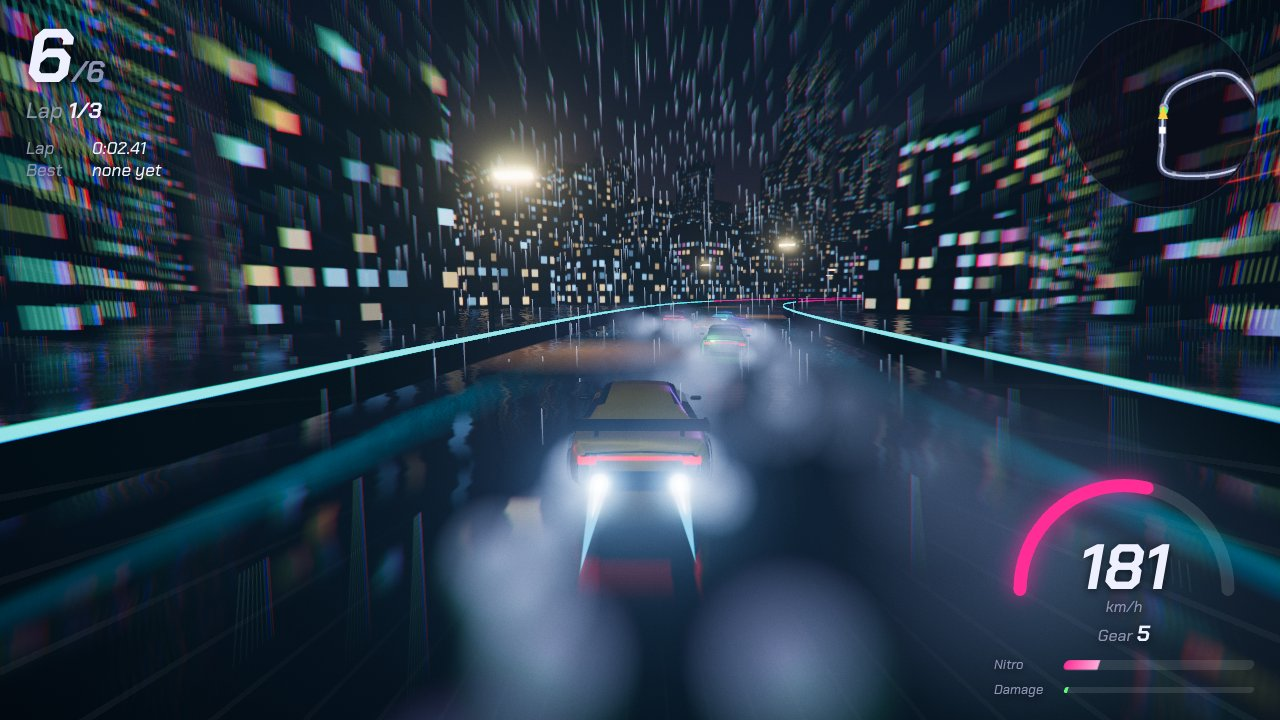
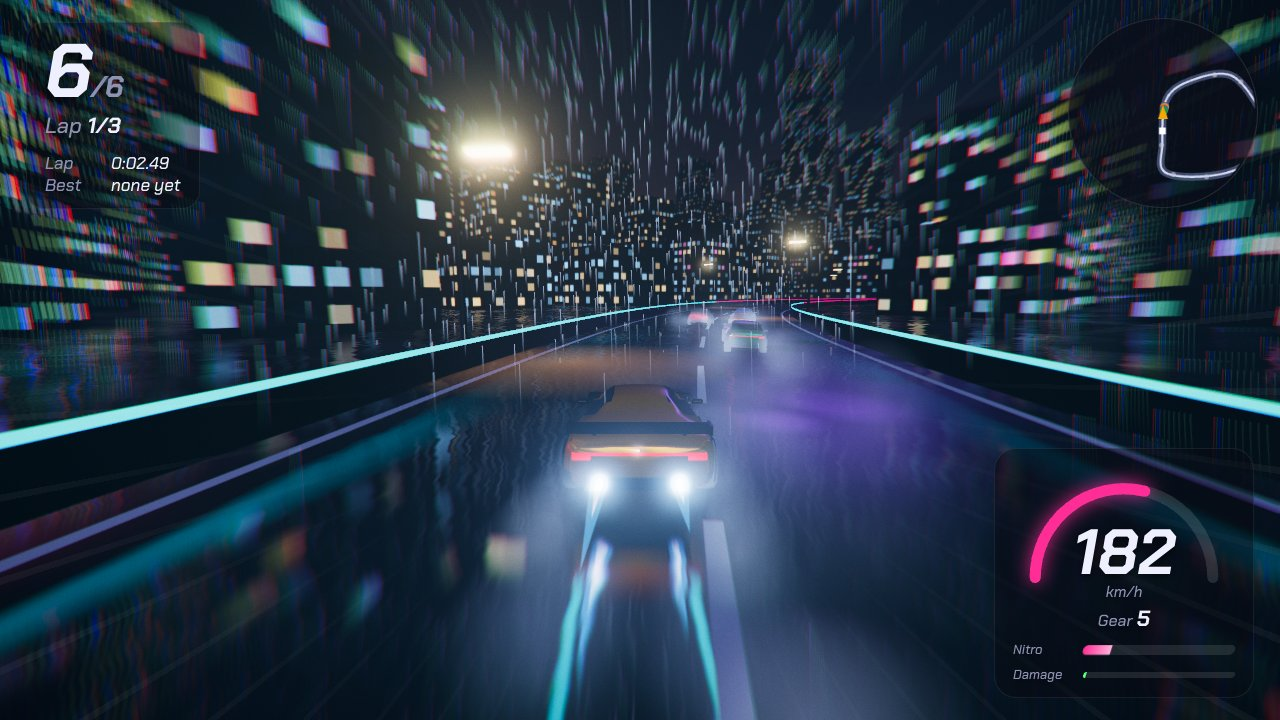
Retake README images for the day setting and the cockpit camera
The title, results, replay and damage shots are now on the mountain road
by day, a new day.jpg shows a race there, and cockpit.jpg replaces the
bonnet shot. The rain and dusk shots stay for the night city.

diff --git a/scripts/shots.ts b/scripts/shots.ts
@@ -37,8 +37,8 @@ const shot = async (name: string) => {
 }
 
 // Title screen, and the same at link-preview size.
-await open(page, '&seed=readme&weather=clear')
-await page.waitForTimeout(1500)
+await open(page, '&seed=readme&weather=day')
+await page.waitForTimeout(2500)
 await shot('title')
 await page.setViewportSize({ width: 1200, height: 630 })
 await page.waitForTimeout(600)
@@ -76,14 +76,19 @@ await shot('drift')
 await page.keyboard.up('ArrowRight')
 await page.keyboard.up('ArrowUp')
 
-// The bonnet camera, with the autopilot driving so the car is at speed.
-await open(page, '&seed=readme&weather=rain&autopilot')
+// The cockpit camera on the mountain road, driven with the keyboard so the
+// pedal panel shows the throttle.
+await open(page, '&seed=readme&weather=day')
 await run(page, `window.__neon.begin(window.__neon.quickSpec('race'))`)
 await run(page, 'window.__neon.game.fastForward(3.2)')
-await run(page, `window.__neon.game.camMode = 'hood'`)
-await page.waitForTimeout(5000)
-await shot('bonnet')
+await run(page, `window.__neon.game.camMode = 'cockpit'`)
+await page.keyboard.down('ArrowUp')
+await page.waitForTimeout(3500)
+await shot('cockpit')
 await run(page, `window.__neon.game.camMode = 'chase'`)
+await page.waitForTimeout(1500)
+await shot('day')
+await page.keyboard.up('ArrowUp')
 // Damage: hits on the front left and the rear right, recorded the same way
 // a barrier or another car records them, then a close-up with time stopped.
 await run(

diff --git a/README.md b/README.md
@@ -46,11 +46,14 @@ The game is original. It borrows the street racing genre, not any particular gam
   </tr>
   <tr>
     <td><img src="docs/replay.jpg" alt="Replay from a trackside TV camera, with the replay controls along the bottom"></td>
-    <td><img src="docs/title.jpg" alt="Title screen over a live race on the night's track"></td>
+    <td><img src="docs/title.jpg" alt="Title screen over a live race on the mountain road by day"></td>
   </tr>
   <tr>
-    <td><img src="docs/damage.jpg" alt="Close-up of the player's coupe in the rain after hits on the front left, with the panel pushed in and the paint scuffed"></td>
-    <td><img src="docs/bonnet.jpg" alt="The bonnet camera on a wet road at night, rivals ahead and the city reflected in the street"></td>
+    <td><img src="docs/damage.jpg" alt="Close-up of the player's car on the mountain road after hits on the front left, with the panel pushed in and the paint scuffed"></td>
+    <td><img src="docs/cockpit.jpg" alt="The cockpit camera on the mountain road by day: steering wheel, the instrument screen showing speed and gear, and the pedal panel below"></td>
+  </tr>
+  <tr>
+    <td colspan="2"><img src="docs/day.jpg" alt="The player's car chasing rivals along the mountain road by day, between steel guard rails, with pine forest and snow-capped peaks behind"></td>
   </tr>
 </table>
 
